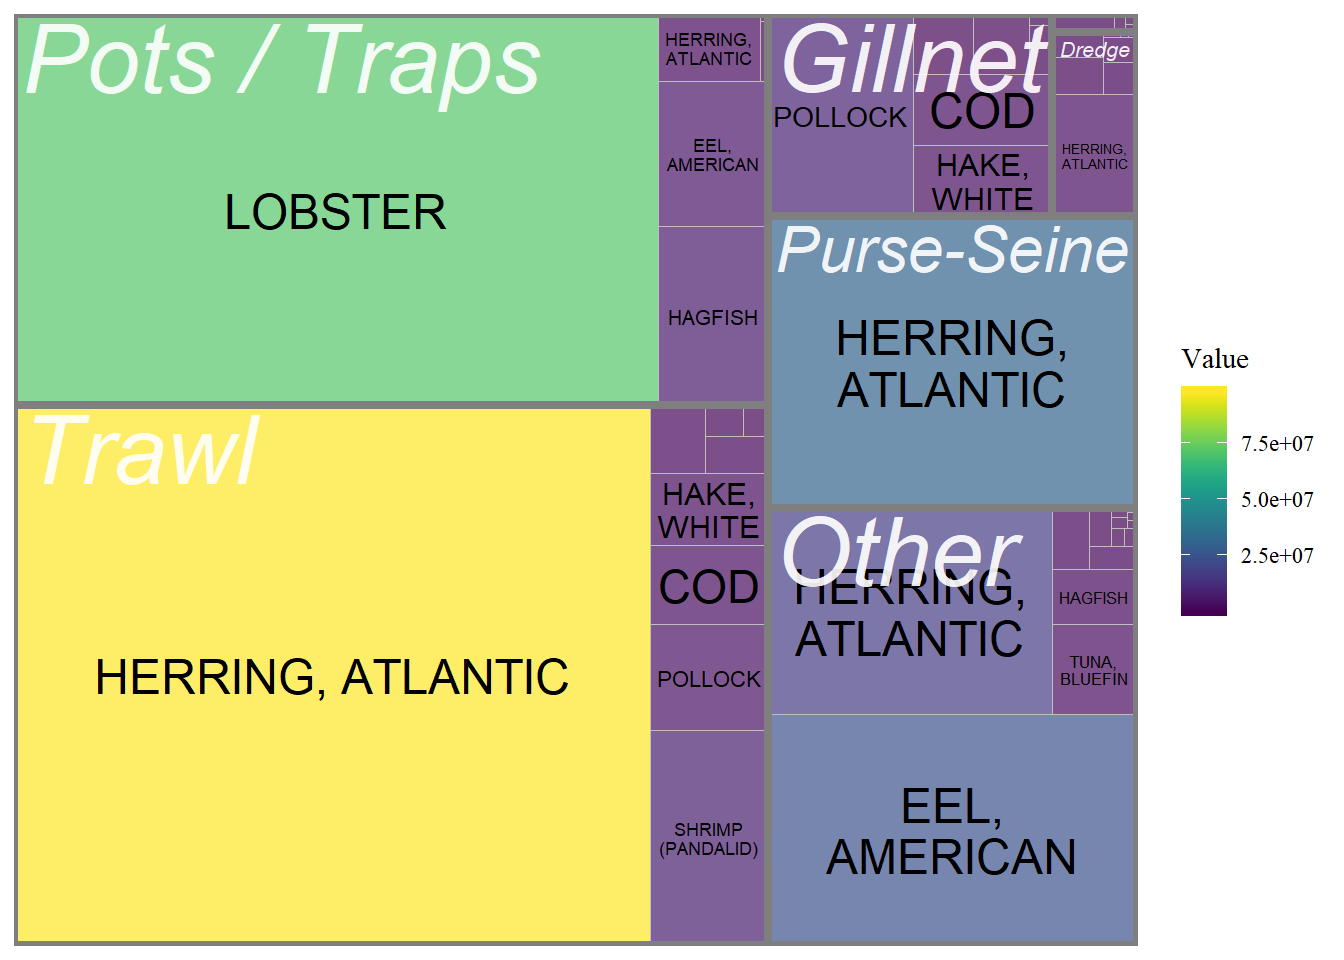
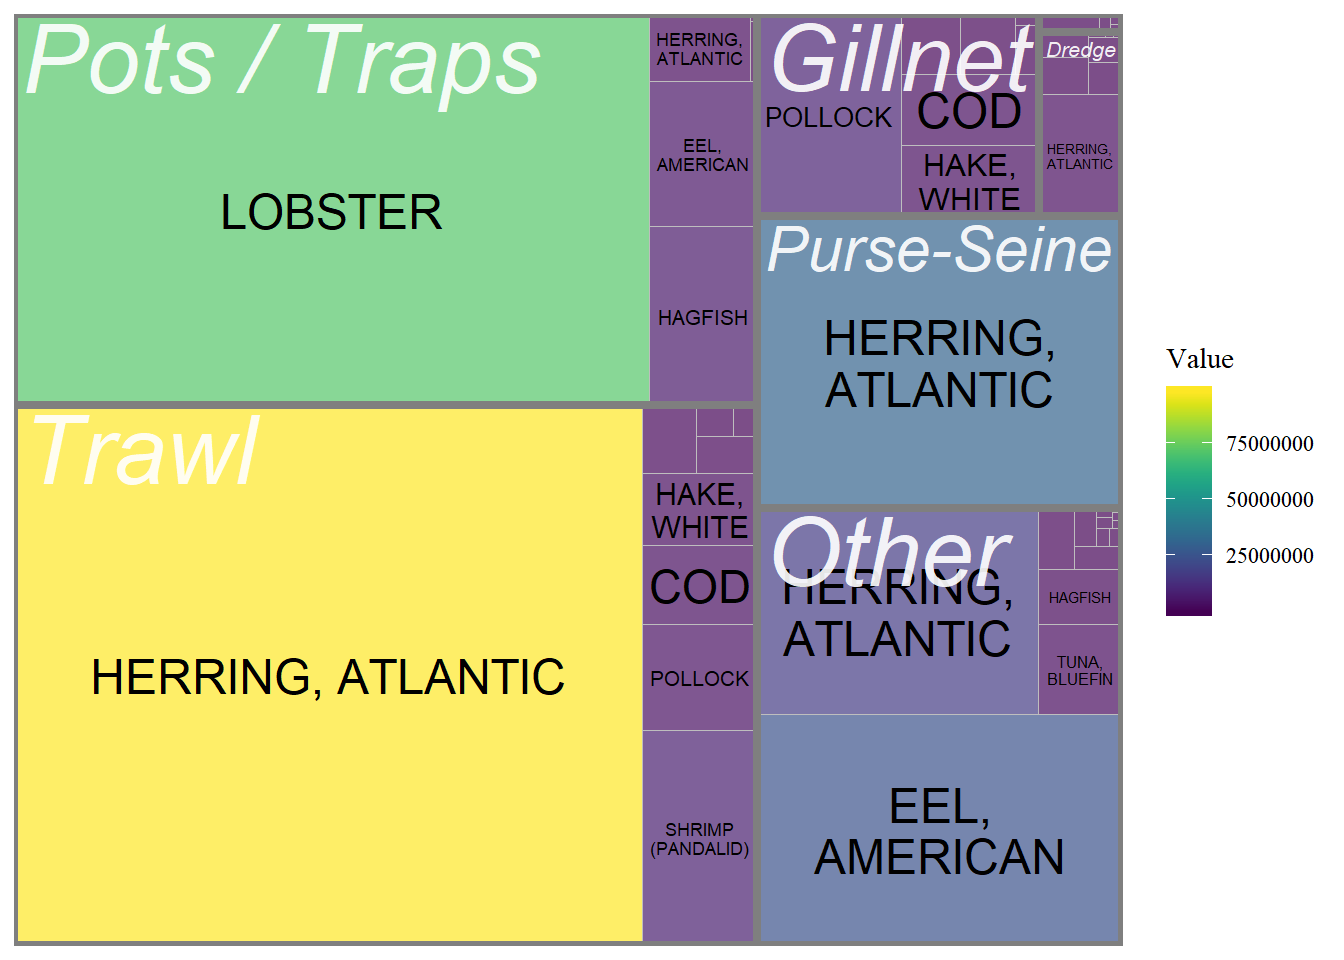
new comm report page

Changed region(s): [[0.4688, 0.0, 0.9688, 1.0], [0.0625, 0.6875, 0.4375, 0.75], [0.1562, 0.1875, 0.3438, 0.25]]

diff --git a/comm_page1.html b/comm_page1.html
@@ -9,9 +9,10 @@
 <meta name="generator" content="pandoc" />
 
 
+<meta name="author" content="Brian Kennedy" />
 
 
-<title>Figures</title>
+<title>comm_figures_2</title>
 
 <script src="site_libs/jquery-1.11.3/jquery.min.js"></script>
 <meta name="viewport" content="width=device-width, initial-scale=1" />
@@ -305,49 +306,62 @@ $(document).ready(function () {
 
 
 
-<h1 class="title toc-ignore">Figures</h1>
+<h1 class="title toc-ignore">comm_figures_2</h1>
+<h4 class="author"><em>Brian Kennedy</em></h4>
+<h4 class="date"><em>March 4, 2019</em></h4>
 
 </div>
 
 
-<div id="basic-iterations-of-map-layers-for-the-community-reports" class="section level2">
-<h2>Basic Iterations of Map Layers for the Community Reports</h2>
-<p>There are many, many approaches for our ‘map’ figure. As we discussed last week, I think our goal here is:</p>
+<div id="goal" class="section level2">
+<h2>Goal:</h2>
+<p>Produce figures for page 1 of the final report. The figures should have consistent formatting and allow for the right ‘flow’ of information as the reader progresses across the page.</p>
+</div>
+<div id="formatting-considerations" class="section level2">
+<h2>Formatting Considerations</h2>
 <ul>
-<li>Show the extent of the Northeast Shelf (i.e. the study area) by displaying the communities involved, the spatial area examined, and the hint at our motif: climate vulnerability.</li>
-<li>Include plenty of of space to overlay text and one-off graphic like text bubbles or inset figures a la the venerable Island Institute figure.</li>
-<li>Use the ‘map’ to call-out the COCA ports and introduce the idea of <strong>Four Focus Communities</strong>.</li>
+<li>Text: All figures are <em>roboto condensed</em></li>
+<li>Palette: I tried to implement the GMRI color scale as per Elijah. At this stage this just means a continuous or discrete palette between gray and blue. Saturation / transparency was hard to dial and varies across the document</li>
+<li>Borders: I tried to go with a white borders on major plot elements</li>
 </ul>
-<p>The plots below are a very rough attempt at generating a base-map to build a report visual on top of. There are a ton of extra things that can be done:</p>
-<ul>
-<li>Abstract away from a map via heat map or scatter plot</li>
-<li>Introduce a layer showing the spatial extent of the Northeast Shelf LME.</li>
-<li>The <strong>NCA ‘Coasts’ Section’ has a ton of good examples</strong>: <a href="https://nca2014.globalchange.gov/report/regions/coasts#intro-section-2" class="uri">https://nca2014.globalchange.gov/report/regions/coasts#intro-section-2</a></li>
-</ul>
-<div id="county-fills" class="section level4">
-<h4>County Fills</h4>
-<p>Counties w/ commercial ports are filled with ‘average annual landings’ as a sample data set and plotted on our base map. Vulnerability, diversity, impact could all be used as fills assuming we can aggregate up to the county level. The legend is deliberately excluded.</p>
-<div class="figure">
-<img src="comm_report_files/figure-html/fill%20w/%20croppeds-1.png" alt="Un-cropped and cropped base maps with county fill" width="672" />
-<p class="caption">
-Un-cropped and cropped base maps with county fill
-</p>
+</div>
+<div id="landings" class="section level2">
+<h2>Landings</h2>
+<p>Simple area chart of annual landings w/ the baseline period treated with a distinct fill.</p>
+<p><strong>Data</strong>: LANPORT / GAR 82_2015</p>
+<p><img src="comm_page1_files/figure-html/landings%20trend-1.png" width="672" /></p>
+</div>
+<div id="top-species" class="section level2">
+<h2>Top Species</h2>
+<p>Bar Plot of the ‘Top 4’ species + ‘Other’</p>
+<p><strong>Data</strong>: LANPORT / GAR 82_2015, this can be changed to CFDERS easily</p>
+<p><img src="comm_page1_files/figure-html/bar%20plot-1.png" width="672" /></p>
+</div>
+<div id="treemaps" class="section level2 tabset">
+<h2>Treemaps</h2>
+<div id="gear-and-species" class="section level3">
+<h3>Gear and Species</h3>
+<p>Tree map built from avg. landings value across the baseline period. I have concerns that the species sub-group is TMI and complicates our bar chart.</p>
+<p><strong>Data</strong>: CFDERS 2011 - 2015</p>
+<p><img src="comm_page1_files/figure-html/treemap%20gear%20spp-1.png" width="672" /></p>
+</div>
+<div id="just-gear" class="section level3">
+<h3>Just Gear</h3>
+<p>Tree map built from avg. landings value across the baseline period. Species subgroup is excluded here.</p>
+<p><strong>Data</strong>: CFDERS 2011 - 2015</p>
+<p><img src="comm_page1_files/figure-html/treemap%20just%20gear-1.png" width="672" /></p>
 </div>
 </div>
-<div id="section" class="section level3">
-<h3></h3>
-<div class="figure">
-<img src="comm_report_files/figure-html/different%20fills%20(all%20cropped)-1.png" alt="cropped base maps with different fill options" width="672" />
-<p class="caption">
-cropped base maps with different fill options
-</p>
+<div id="scatterplot" class="section level2">
+<h2>Scatterplot</h2>
+<p>Scatter plot with catch diversity and log transformed Avg. Value. I have excluded axis values here.</p>
+<p><img src="comm_page1_files/figure-html/scatterplot-1.png" width="672" /></p>
 </div>
-<div id="treemap-figure-portland-maine-example" class="section level5">
-<h5>Treemap Figure, Portland Maine Example</h5>
-<p>Ideally, if we are trying to describe vulnerability, we could use the same fill here as the map.</p>
-<p><img src="comm_report_files/figure-html/treemaps-1.png" width="672" /></p>
-</div>
-</div>
+<div id="map" class="section level2">
+<h2>Map</h2>
+<p>Basic baseman. Palette has been reversed.</p>
+<p><strong>Data</strong>: LANPORT / GAR 82_2015 + default GGMAP categories</p>
+<p><img src="comm_page1_files/figure-html/map-1.png" width="672" /></p>
 </div>
 
 

diff --git a/README.html b/README.html
@@ -285,6 +285,9 @@ $(document).ready(function () {
   <a href="comm_report.html">COCA Map Iterations</a>
 </li>
 <li>
+  <a href="comm_page1.html">Community Report: Page 1</a>
+</li>
+<li>
   <a href="comm_figures.html">Community Report Figures</a>
 </li>
 <li>

diff --git a/comm_figures.html b/comm_figures.html
@@ -285,6 +285,9 @@ $(document).ready(function () {
   <a href="comm_report.html">COCA Map Iterations</a>
 </li>
 <li>
+  <a href="comm_page1.html">Community Report: Page 1</a>
+</li>
+<li>
   <a href="comm_figures.html">Community Report Figures</a>
 </li>
 <li>

diff --git a/index.html b/index.html
@@ -285,6 +285,9 @@ $(document).ready(function () {
   <a href="comm_report.html">COCA Map Iterations</a>
 </li>
 <li>
+  <a href="comm_page1.html">Community Report: Page 1</a>
+</li>
+<li>
   <a href="comm_figures.html">Community Report Figures</a>
 </li>
 <li>

diff --git a/lobster_trend.html b/lobster_trend.html
@@ -285,6 +285,9 @@ $(document).ready(function () {
   <a href="comm_report.html">COCA Map Iterations</a>
 </li>
 <li>
+  <a href="comm_page1.html">Community Report: Page 1</a>
+</li>
+<li>
   <a href="comm_figures.html">Community Report Figures</a>
 </li>
 <li>
